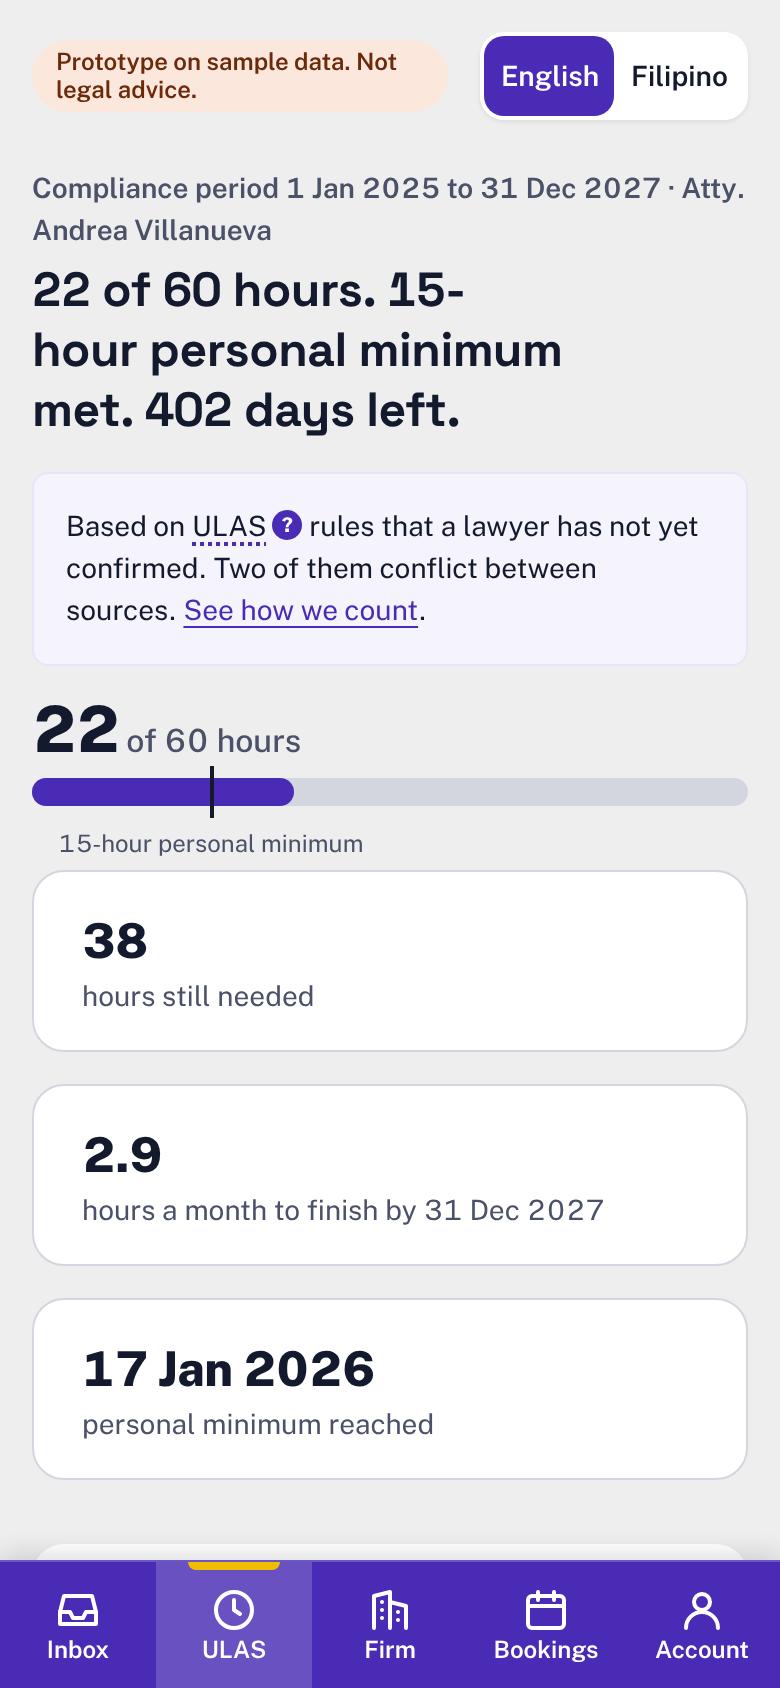
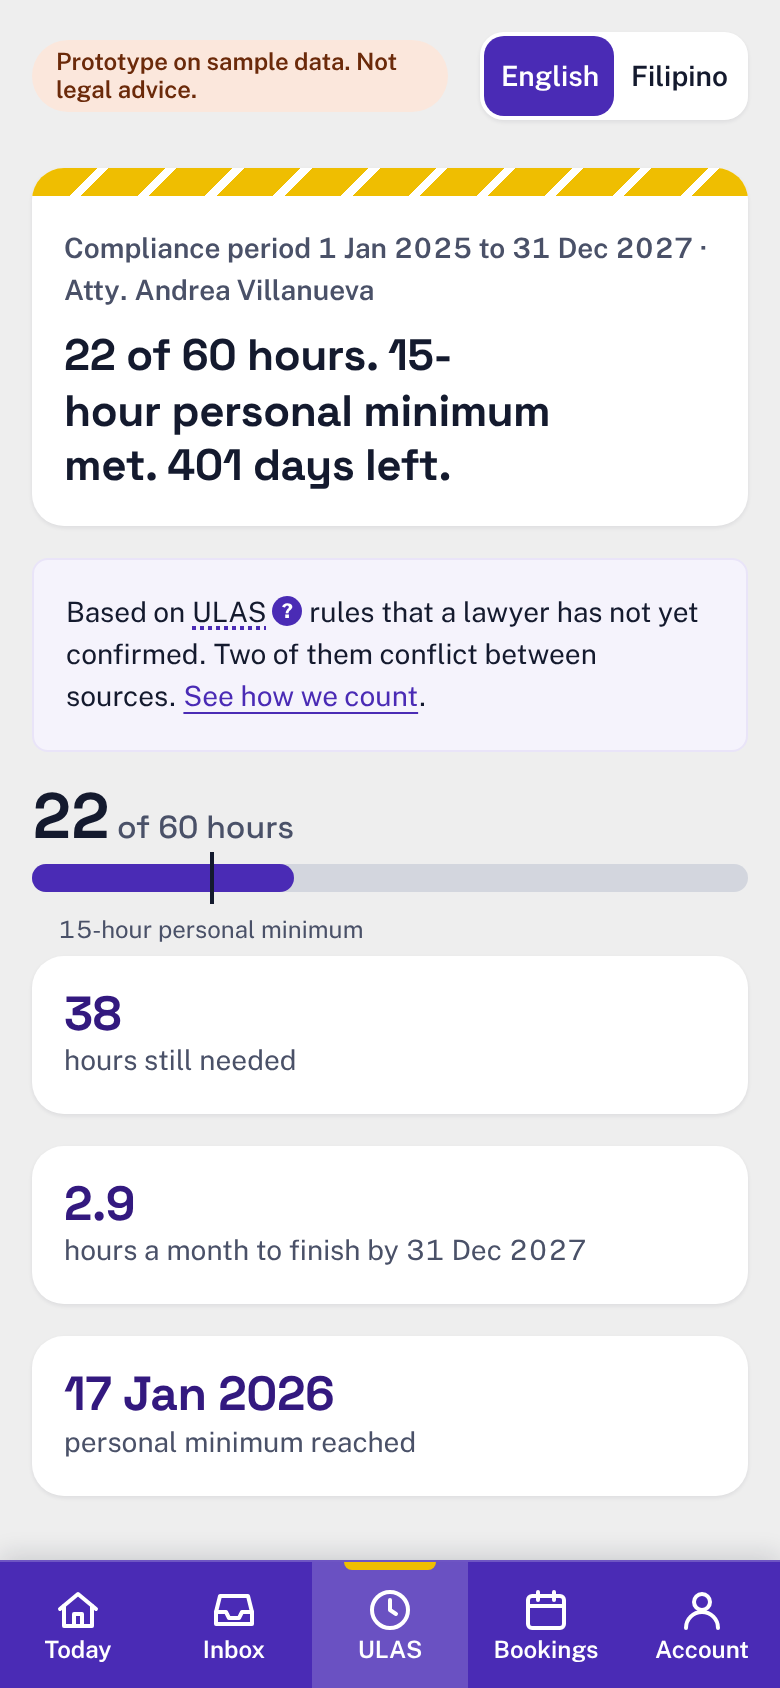
Add lawyer Today bento and move lawyer screens onto the system
/app/ is a bento grid: answer line, ULAS meter (the hero motion), new
briefs, next appointment, partner-clinic briefs, firm view and plan,
each tile opening its screen. Lawyer pages run at the dense setting; the
shared answer header becomes a banded answer card; inbox, ULAS and
bookings cards lose borders for the soft shadow and display-face
numbers; tabs get the gold underline. Home and lawyer landing sections
reveal on scroll. Smoke: snap sheet peek/half/full and a flick, Today
tiles, and a reduced-motion pass. Docs: D30, D31, gis-ui-kit motion.md.

Claude-Session: https://claude.ai/code/session_016edfBFbxvkaY57cMuCD13E

diff --git a/app/app/Today.tsx b/app/app/Today.tsx
@@ -1,0 +1,94 @@
+"use client";
+// Lawyer overview as a bento grid (direction D, decision D30): the day organised the way a solo
+// practitioner thinks (new matters, hours owed, next appointment, the plan). Answer first, then tiles
+// sized by importance. Hero motion: the ULAS bar fills. Tiles enter with a short staggered spring.
+import Link from "next/link";
+import { useMemo } from "react";
+import { useBookings, useBriefs, useHours } from "@/lib/useLawyer";
+import { firmSummary, summarize } from "@/lib/ulas";
+import { DEMO_TODAY, demoToday, fmtDate, fmtNum, peso } from "@/lib/demo";
+import { PRACTICE } from "@/lib/practice";
+import { account, firm, fullName, me } from "@/lib/data";
+import { Answer } from "@/components/Honest";
+import UlasMeter from "@/components/UlasMeter";
+import RollNumber from "@/components/RollNumber";
+import Icon from "@/components/Icon";
+import s from "./today.module.css";
+
+export default function Today() {
+  const briefs = useBriefs();
+  const hours = useHours();
+  const bookings = useBookings();
+  const sum = useMemo(() => summarize(hours, demoToday()), [hours]);
+  const fresh = briefs.filter((b) => b.status === "new");
+  const urgent = fresh.filter((b) => b.urgency === "urgent");
+  const fromClinics = fresh.filter((b) => b.source === "partner-clinic");
+  const next = bookings.filter((b) => b.status === "upcoming").sort((a, b) => `${a.date}${a.time}`.localeCompare(`${b.date}${b.time}`))[0];
+  const toSchedule = bookings.filter((b) => b.status === "to-schedule").length;
+  const f = firmSummary(firm.members);
+
+  return (
+    <div className="page-in">
+      <Answer kicker={`${fmtDate(DEMO_TODAY)} · ${fullName(me)} · sample lawyer`}>
+        {fresh.length} new {fresh.length === 1 ? "brief" : "briefs"}, {urgent.length} urgent. {fmtNum(sum.credited)} of {sum.required} ULAS hours, {sum.daysLeft} days left.
+      </Answer>
+
+      <div className={`${s.grid} stagger`}>
+        <section className={`${s.tile} ${s.ulas}`} style={{ "--i": 0 } as React.CSSProperties} aria-labelledby="t-ulas">
+          <h2 id="t-ulas" className={s.h}><Link href="/app/ulas/" className={s.cover}>ULAS hours</Link></h2>
+          <UlasMeter value={sum.credited} max={sum.required || 60} marker={sum.personalMinimum} markerLabel={`${sum.personalMinimum} h personal minimum`} label="ULAS hours credited this period" />
+          <dl className={s.kv}>
+            <div><dt>Still needed</dt><dd>{fmtNum(sum.remaining)} h</dd></div>
+            <div><dt>Pace</dt><dd>{fmtNum(sum.hoursPerMonthNeeded)} h a month</dd></div>
+            <div><dt>Period ends</dt><dd>{fmtDate(sum.periodEnd)}</dd></div>
+          </dl>
+          <p className={s.note}>Rules not yet confirmed by a lawyer.</p>
+        </section>
+
+        <section className={`${s.tile} ${s.briefs}`} style={{ "--i": 1 } as React.CSSProperties} aria-labelledby="t-briefs">
+          <h2 id="t-briefs" className={s.h}><Link href="/app/inbox/" className={s.cover}>New briefs</Link></h2>
+          <p className={s.big}><RollNumber value={fresh.length} /><span className={s.unit}>{urgent.length} urgent</span></p>
+          <ul className={s.list}>
+            {fresh.slice(0, 3).map((b) => (
+              <li key={b.id}>
+                <span className={b.urgency === "urgent" ? s.dotUrgent : s.dot} aria-hidden />
+                <span className={s.lt}>{b.title}<span className={s.ls}>{PRACTICE[b.category].en}{b.proBonoRequested ? " · pro bono asked" : ""}</span></span>
+              </li>
+            ))}
+          </ul>
+        </section>
+
+        <section className={`${s.tile} ${s.next}`} style={{ "--i": 2 } as React.CSSProperties} aria-labelledby="t-next">
+          <h2 id="t-next" className={s.h}><Link href="/app/bookings/" className={s.cover}>Next appointment</Link></h2>
+          {next ? (
+            <>
+              <p className={s.mid}>{fmtDate(next.date!)}<span className={s.unit}>{next.time} · {next.mode}</span></p>
+              <p className={s.small}>{next.matter}</p>
+              <span className={next.tag === "probono" ? s.tagPb : s.tag}>{next.tag === "probono" ? "Pro bono" : "Paid"}</span>
+            </>
+          ) : <p className={s.small}>Nothing scheduled.</p>}
+          {toSchedule > 0 && <p className={s.note}>{toSchedule} to schedule</p>}
+        </section>
+
+        <section className={`${s.tile} ${s.clinic}`} style={{ "--i": 3 } as React.CSSProperties} aria-labelledby="t-clinic">
+          <h2 id="t-clinic" className={s.h}><Link href="/app/inbox/" className={s.cover}>From partner clinics</Link></h2>
+          <p className={s.mid}><RollNumber value={fromClinics.length} /><span className={s.unit}>pro bono {fromClinics.length === 1 ? "brief" : "briefs"} waiting</span></p>
+          <p className={s.small}>{fromClinics[0]?.partner ?? "No routed briefs right now."}</p>
+        </section>
+
+        <section className={`${s.tile} ${s.firm}`} style={{ "--i": 4 } as React.CSSProperties} aria-labelledby="t-firm">
+          <h2 id="t-firm" className={s.h}><Link href="/app/firm/" className={s.cover}>Firm view (sample)</Link></h2>
+          <p className={s.mid}>{f.rendered}<span className={s.unit}>of {f.required} pooled hours</span></p>
+          <p className={s.small}>{f.behind.length} of {f.covered} lawyers behind on the personal minimum</p>
+        </section>
+
+        <section className={`${s.tile} ${s.plan}`} style={{ "--i": 5 } as React.CSSProperties} aria-labelledby="t-plan">
+          <h2 id="t-plan" className={s.h}><Link href="/app/account/" className={s.cover}>Plan</Link></h2>
+          <p className={s.mid}>{peso(account.foundingPrice)}<span className={s.unit}>a month, founding rate</span></p>
+          <p className={s.small}>Until {fmtDate(account.foundingUntil)}. Never shown on your public profile.</p>
+        </section>
+      </div>
+      <p className={s.foot}><Icon name="arrow" size={16} /> Each tile opens its screen. Sample data only.</p>
+    </div>
+  );
+}

diff --git a/app/app/today.module.css b/app/app/today.module.css
@@ -1,0 +1,45 @@
+/* Bento grid: tiles sized by importance; one system with the rest of the app (white cards, one shadow). */
+.grid { display: grid; grid-template-columns: repeat(6, minmax(0, 1fr)); grid-auto-rows: minmax(150px, auto); gap: var(--gap); }
+.tile {
+  position: relative; display: flex; flex-direction: column; gap: var(--s-2); min-width: 0;
+  padding: var(--card-pad); border-radius: var(--radius); background: var(--surface); box-shadow: var(--shadow-soft);
+  transition: transform var(--spring-spatial-ms) var(--spring-spatial), box-shadow var(--effects-ms) var(--ease-effects);
+}
+@media (hover: hover) { .tile:has(.cover:hover) { transform: translateY(-3px); box-shadow: 0 10px 28px rgba(20, 26, 46, .14); } }
+.tile:has(.cover:active) { transform: scale(.985); }
+.tile:has(.cover:focus-visible) { outline: 3px solid var(--brand); outline-offset: 2px; }
+.ulas { grid-column: span 4; grid-row: span 2; }
+.briefs { grid-column: span 2; grid-row: span 2; }
+.next, .clinic, .firm, .plan { grid-column: span 3; }
+@media (min-width: 1100px) { .next, .clinic, .firm, .plan { grid-column: span 3; } }
+.h { margin: 0; font: 700 var(--fs-sm) var(--font-text); letter-spacing: .06em; text-transform: uppercase; color: var(--muted); }
+.cover { color: inherit; text-decoration: none; }
+.cover::after { content: ""; position: absolute; inset: 0; border-radius: var(--radius); }
+.cover:focus-visible { outline: none; }
+.big { margin: 0; display: flex; align-items: baseline; gap: var(--s-2); font: 700 3rem/1 var(--font-display); color: var(--brand-dark); }
+.mid { margin: 0; display: flex; flex-wrap: wrap; align-items: baseline; gap: 0 var(--s-2); font: 700 1.75rem/1.1 var(--font-display); color: var(--brand-dark); }
+.unit { font: 500 var(--fs-sm) var(--font-text); color: var(--muted); }
+.small { margin: 0; font-size: var(--fs-sm); color: var(--ink); }
+.note { margin: auto 0 0; font-size: var(--fs-xs); color: var(--muted); }
+.kv { display: grid; grid-template-columns: repeat(3, minmax(0, 1fr)); gap: var(--s-2); margin: auto 0 0; }
+.kv dt { font-size: var(--fs-xs); color: var(--muted); }
+.kv dd { margin: 0; font: 700 var(--fs-md) var(--font-display); }
+.list { list-style: none; margin: var(--s-1) 0 0; padding: 0; display: grid; gap: var(--s-2); }
+.list li { display: flex; gap: var(--s-2); align-items: flex-start; font-size: var(--fs-sm); line-height: 1.35; }
+.lt { display: flex; flex-direction: column; min-width: 0; font-weight: 600; }
+.ls { font-weight: 400; font-size: var(--fs-xs); color: var(--muted); }
+.dot, .dotUrgent { flex: none; width: 10px; height: 10px; margin-top: 4px; border-radius: 50%; background: var(--brand); }
+.dotUrgent { background: var(--warn-ink); }
+.tag, .tagPb { align-self: flex-start; padding: 2px 10px; border-radius: var(--radius-pill); font: 600 var(--fs-xs) var(--font-text); background: var(--bg); color: var(--muted); }
+.tagPb { background: var(--ok-bg); color: var(--ok-ink); }
+.foot { display: flex; align-items: center; gap: var(--s-1); margin: var(--gap) 0 0; font-size: var(--fs-xs); color: var(--muted); }
+.ulas :global(.sr-only) + * { margin: 0; }
+@media (max-width: 1000px) { .ulas, .briefs { grid-column: span 6; grid-row: auto; } }
+@media (max-width: 640px) {
+  .grid { grid-template-columns: 1fr 1fr; grid-auto-rows: auto; }
+  .ulas, .briefs { grid-column: span 2; }
+  .next, .clinic, .firm, .plan { grid-column: span 1; }
+  .mid { font-size: 1.35rem; }
+  .kv { grid-template-columns: 1fr 1fr; }
+}
+@media (max-width: 400px) { .next, .clinic, .firm, .plan { grid-column: span 2; } }

diff --git a/components/Shell.tsx b/components/Shell.tsx
@@ -9,10 +9,10 @@ import LangToggle from "./LangToggle";
 import Icon, { type IconName } from "./Icon";
 import s from "./Shell.module.css";
 
-export type NavItem = { href: string; label: Key | string; short?: Key | string; icon: IconName };
+export type NavItem = { href: string; label: Key | string; short?: Key | string; icon: IconName; exact?: boolean };
 type Props = { audience: "client" | "lawyer" | "admin"; items: NavItem[]; children: React.ReactNode };
 
-const isActive = (path: string, href: string) => (href === "/" ? path === "/" : path === href || path.startsWith(href));
+const isActive = (path: string, href: string, exact = false) => (href === "/" || exact ? path === href : path === href || path.startsWith(href));
 const WORD = "APPogado".split("");
 // Pages that own the whole viewport (map-first). Everything else is a document page.
 const FULL_BLEED = ["/find/"];
@@ -28,7 +28,7 @@ export default function Shell({ audience, items, children }: Props) {
   const indRef = useRef<HTMLSpanElement>(null);
   const [open, setOpen] = useState(true);
   const [weaving, setWeaving] = useState(0);
-  const activeIndex = items.findIndex((i) => isActive(path, i.href));
+  const activeIndex = items.findIndex((i) => isActive(path, i.href, i.exact));
   const full = FULL_BLEED.includes(path);
 
   useEffect(() => {
@@ -66,14 +66,14 @@ export default function Shell({ audience, items, children }: Props) {
   };
 
   const other = audience === "client"
-    ? { href: "/app/inbox/", text: t("foot.lawyerSide"), short: t("foot.lawyerSideShort") }
+    ? { href: "/app/", text: t("foot.lawyerSide"), short: t("foot.lawyerSideShort") }
     : { href: "/", text: "Prototype: see the client side", short: "Client side (demo)" };
 
   return (
     <div className={s.app} data-full={full || undefined}>
       <nav className={`${s.nav} no-print`} aria-label="Main">
         <div className={s.head}>
-          <Link href={audience === "client" ? "/" : "/app/inbox/"} className={s.brand} aria-label="APPogado home">
+          <Link href={audience === "client" ? "/" : "/app/"} className={s.brand} aria-label="APPogado home">
             <span className={s.mark} aria-hidden>A</span>
             <span className={s.words}>
               <span className={s.word} key={weaving} aria-hidden>
@@ -115,7 +115,7 @@ export default function Shell({ audience, items, children }: Props) {
             <span className={s.phoneLang}><LangToggle compact /></span>
           </div>
         )}
-        <main id="main" tabIndex={-1} className={full ? s.mainFull : s.main}>{children}</main>
+        <main id="main" tabIndex={-1} className={full ? s.mainFull : s.main} data-density={audience === "client" ? undefined : "dense"}>{children}</main>
         {!full && (
           <footer className={`${s.pageFoot} no-print`}>
             <Link href={other.href}>{other.text}</Link>

diff --git a/app/app/inbox/inbox.module.css b/app/app/inbox/inbox.module.css
@@ -1,16 +1,16 @@
 .tabs { display: flex; gap: var(--s-1); margin: var(--s-4) 0 var(--s-3); overflow-x: auto; border-bottom: 1px solid var(--line); }
 .tab { position: relative; min-height: var(--touch); padding: 0 var(--s-3); border: 0; background: none; font: inherit; font-weight: 600; color: var(--muted); cursor: pointer; white-space: nowrap; }
 .tab[aria-selected="true"] { color: var(--ink); }
-.tab[aria-selected="true"]::after { content: ""; position: absolute; left: var(--s-2); right: var(--s-2); bottom: -1px; height: 3px; border-radius: 2px; background: var(--brand); }
+.tab[aria-selected="true"]::after { content: ""; position: absolute; left: var(--s-2); right: var(--s-2); bottom: -1px; height: 4px; border-radius: 2px; background: var(--act); }
 .count { display: inline-grid; place-items: center; min-width: 22px; height: 22px; margin-left: 4px; padding: 0 6px; border-radius: 11px; background: var(--bg); font-size: var(--fs-xs); }
 .list { list-style: none; margin: 0; padding: 0; display: grid; gap: var(--s-2); }
-.row { position: relative; padding: var(--s-3) var(--s-4); background: var(--surface); border: 1px solid var(--line); border-radius: var(--radius); transition: border-color var(--dur-fast) var(--ease); }
-.row:has(.link:hover) { border-color: var(--brand); }
+.row { position: relative; padding: var(--card-pad); background: var(--surface); border-radius: var(--radius); box-shadow: var(--shadow-soft); transition: transform var(--spring-spatial-ms) var(--spring-spatial), box-shadow var(--effects-ms) var(--ease-effects); }
+@media (hover: hover) { .row:has(.link:hover) { transform: translateY(-2px); box-shadow: 0 8px 24px rgba(20, 26, 46, .14); } }
 .row:has(.link:focus-visible) { outline: 2px solid var(--brand); outline-offset: 2px; }
 .link { color: var(--ink); text-decoration: none; }
 .link::after { content: ""; position: absolute; inset: 0; }
 .link:focus-visible { outline: none; }
-.title { display: block; font-weight: 700; font-size: 1.05rem; margin-bottom: var(--s-2); }
+.title { display: block; font: 700 1.05rem/1.3 var(--font-display); margin-bottom: var(--s-2); }
 .chips { display: flex; flex-wrap: wrap; gap: var(--s-1); list-style: none; margin: 0 0 var(--s-1); padding: 0; }
 .chip { padding: 2px var(--s-2); border-radius: var(--radius-pill); background: var(--bg); font-size: var(--fs-xs); font-weight: 600; color: var(--muted); }
 .urgent { background: var(--warn-bg); color: var(--warn-ink); }

diff --git a/components/ui.module.css b/components/ui.module.css
@@ -5,8 +5,11 @@
 .honest { margin: var(--s-3) 0; padding: var(--s-3); border-radius: var(--radius-sm); background: var(--brand-wash); border: 1px solid var(--brand-tint); font-size: var(--fs-sm); }
 .honest > :first-child { margin-top: 0; }
 .honest > :last-child { margin-bottom: 0; }
-.answer { margin: 0 0 var(--s-2); font-size: var(--fs-lg); line-height: 1.25; font-weight: 700; letter-spacing: -0.01em; text-wrap: balance; }
-.kicker { margin: 0 0 var(--s-1); font-size: var(--fs-sm); color: var(--muted); font-weight: 600; }
+.answerCard { position: relative; overflow: hidden; margin: 0 0 var(--gap); padding: calc(14px + var(--card-pad)) var(--card-pad) var(--card-pad); border-radius: var(--radius); background: var(--surface); box-shadow: var(--shadow-soft); }
+.answerCard::before { content: ""; position: absolute; top: 0; left: 0; right: 0; height: 14px; background: repeating-linear-gradient(-45deg, var(--act) 0 20px, #fff 20px 24px); }
+.answerCard > :last-child { margin-bottom: 0; }
+.answer { margin: 0; font: 700 var(--fs-lg)/1.25 var(--font-display); letter-spacing: -0.01em; text-wrap: balance; }
+.kicker { margin: 0 0 var(--s-2); font-size: var(--fs-sm); color: var(--muted); font-weight: 600; }
 .tags { display: flex; flex-wrap: wrap; gap: var(--s-1); padding: 0; margin: 0; list-style: none; }
 .tag { display: inline-flex; align-items: center; min-height: 28px; padding: 0 var(--s-2); border-radius: var(--radius-pill); background: var(--bg); border: 1px solid var(--line); font-size: var(--fs-sm); }
 .tagUrgent { background: var(--warn-bg); color: var(--warn-ink); border-color: transparent; font-weight: 600; }

diff --git a/app/(client)/for-lawyers/page.tsx b/app/(client)/for-lawyers/page.tsx
@@ -26,7 +26,7 @@ export default function Page() {
         </div>
       </section>
 
-      <section className={s.job}>
+      <section className={`${s.job} reveal`}>
         <div>
           <p className={s.n}>1 · Get discovered</p>
           <h2 className={s.h2}>A listing that is the same for everyone</h2>
@@ -35,7 +35,7 @@ export default function Page() {
         <div className={s.preview}><LawyerCard lawyer={card} lang="en" /></div>
       </section>
 
-      <section className={s.job}>
+      <section className={`${s.job} reveal`}>
         <div>
           <p className={s.n}>2 · Triage in a minute</p>
           <h2 className={s.h2}>Every matter arrives as a one-page brief</h2>
@@ -44,7 +44,7 @@ export default function Page() {
         <div className={s.preview}><BriefCard brief={brief} headingLevel={3} /></div>
       </section>
 
-      <section className={s.job}>
+      <section className={`${s.job} reveal`}>
         <div>
           <p className={s.n}>3 · Stay ULAS-compliant</p>
           <h2 className={s.h2}>Your 60 hours, counted as you go</h2>
@@ -57,7 +57,7 @@ export default function Page() {
         </div>
       </section>
 
-      <section id="pricing" className={s.pricing}>
+      <section id="pricing" className={`${s.pricing} reveal`}>
         <h2 className={s.h2}>Pricing</h2>
         <div className={s.plans}>
           <div className="panel">

diff --git a/app/(client)/Home.tsx b/app/(client)/Home.tsx
@@ -32,15 +32,15 @@ export default function Home() {
           <Link className={s.nearLink} href="/find/">{t("h.near")}</Link>
         </div>
 
-        <dl className={s.strip}>
+        <dl className={`${s.strip} reveal`}>
           <div><dt>{t("h.stLawyers")}</dt><dd><RollNumber value={lawyers.length} /></dd></div>
           <div><dt>{t("h.stOffices")}</dt><dd><RollNumber value={offices.length} /></dd></div>
           <div><dt>{t("h.stAreas")}</dt><dd><RollNumber value={PRACTICE_KEYS.length} /></dd></div>
         </dl>
 
-        <p className={s.lede}>{t("h.lede")}</p>
+        <p className={`${s.lede} reveal`}>{t("h.lede")}</p>
 
-        <div className={s.how}>
+        <div className={`${s.how} reveal`}>
           <Link className={s.preview} href="/describe/">
             <div className={s.pvCard}><BriefCard brief={sample} lang={lang} headingLevel={3} /></div>
             <span className={s.pvCap}>{t("h.pvCap")}<Icon name="arrow" size={18} /></span>
@@ -62,7 +62,7 @@ export default function Home() {
           </section>
         </div>
 
-        <blockquote className={s.quote}>
+        <blockquote className={`${s.quote} reveal`}>
           <p>{t("h.quote")}</p>
           <cite>{t("h.cite")}</cite>
         </blockquote>

diff --git a/components/UlasMeter.module.css b/components/UlasMeter.module.css
@@ -1,7 +1,7 @@
 .meter { margin: var(--s-3) 0 var(--s-5); }
-.num { margin: 0 0 var(--s-2); font-size: var(--fs-xl); font-weight: 800; line-height: 1; letter-spacing: -0.02em; }
+.num { margin: 0 0 var(--s-2); font-family: var(--font-display); font-size: var(--fs-xl); font-weight: 700; line-height: 1; letter-spacing: -0.02em; }
 .of { font-size: var(--fs-md); font-weight: 500; color: var(--muted); letter-spacing: 0; }
 .track { position: relative; height: 14px; border-radius: var(--radius-pill); background: var(--line); }
-.bar { height: 100%; border-radius: inherit; background: var(--brand); transition: width .6s var(--ease); }
+.bar { height: 100%; border-radius: inherit; background: var(--brand); transition: width var(--spring-spatial-slow-ms) var(--spring-spatial-slow); }
 .marker { position: absolute; top: -6px; bottom: -6px; width: 2px; margin-left: -1px; background: var(--ink); }
 .markerLabel { position: absolute; top: 100%; left: 50%; transform: translateX(-50%); margin-top: 4px; white-space: nowrap; font-size: var(--fs-xs); color: var(--muted); }

diff --git a/app/app/bookings/bookings.module.css b/app/app/bookings/bookings.module.css
@@ -1,7 +1,7 @@
 .group { margin-top: var(--s-4); }
 .h2 { margin: 0 0 var(--s-2); font-size: 1.1rem; }
 .list { list-style: none; margin: 0; padding: 0; display: grid; gap: var(--s-2); }
-.row { display: grid; grid-template-columns: 1fr auto; gap: var(--s-2) var(--s-4); padding: var(--s-3) var(--s-4); background: var(--surface); border: 1px solid var(--line); border-radius: var(--radius); }
+.row { display: grid; grid-template-columns: 1fr auto; gap: var(--s-2) var(--s-4); padding: var(--card-pad); background: var(--surface); border-radius: var(--radius); box-shadow: var(--shadow-soft); }
 .title { margin: 0 0 var(--s-1); font-weight: 700; }
 .chips { display: flex; gap: var(--s-1); list-style: none; margin: 0 0 var(--s-1); padding: 0; }
 .chip { padding: 2px var(--s-2); border-radius: var(--radius-pill); background: var(--bg); font-size: var(--fs-xs); font-weight: 600; color: var(--muted); }

diff --git a/app/app/ulas/ulas.module.css b/app/app/ulas/ulas.module.css
@@ -1,6 +1,6 @@
 .stats { display: grid; grid-template-columns: repeat(3, 1fr); gap: var(--s-3); margin-bottom: var(--s-5); }
-.stat { padding: var(--s-3) var(--s-4); background: var(--surface); border: 1px solid var(--line); border-radius: var(--radius); }
-.statNum { margin: 0; font-size: 1.5rem; font-weight: 800; letter-spacing: -0.01em; }
+.stat { padding: var(--card-pad); background: var(--surface); border-radius: var(--radius); box-shadow: var(--shadow-soft); }
+.statNum { margin: 0; font: 700 1.5rem/1.1 var(--font-display); color: var(--brand-dark); letter-spacing: -0.01em; }
 .statLbl { margin: 0; font-size: var(--fs-sm); color: var(--muted); }
 .cols { display: grid; grid-template-columns: 1fr 1fr; gap: var(--s-4); align-items: start; }
 .two { display: grid; grid-template-columns: 1fr 1fr; gap: var(--s-3); }

diff --git a/components/Honest.tsx b/components/Honest.tsx
@@ -2,11 +2,13 @@ import s from "./ui.module.css";
 export function Honest({ children }: { children: React.ReactNode }) {
   return <div className={s.honest} role="note">{children}</div>;
 }
-export function Answer({ kicker, children, id }: { kicker?: React.ReactNode; children: React.ReactNode; id?: string }) {
+// Answer card (gis-ui-kit): 14 px gold band, eyebrow, the answer as the headline, optional detail below.
+export function Answer({ kicker, children, id, after }: { kicker?: React.ReactNode; children: React.ReactNode; id?: string; after?: React.ReactNode }) {
   return (
-    <header>
+    <header className={s.answerCard}>
       {kicker && <p className={s.kicker}>{kicker}</p>}
       <h1 className={s.answer} id={id}>{children}</h1>
+      {after}
     </header>
   );
 }

diff --git a/app/app/layout.tsx b/app/app/layout.tsx
@@ -1,9 +1,9 @@
 import Shell from "@/components/Shell";
 
 const items = [
+  { href: "/app/", label: "Today", icon: "home" as const, exact: true },
   { href: "/app/inbox/", label: "Inbox", icon: "inbox" as const },
   { href: "/app/ulas/", label: "ULAS hours", short: "ULAS", icon: "clock" as const },
-  { href: "/app/firm/", label: "Firm", icon: "building" as const },
   { href: "/app/bookings/", label: "Bookings", icon: "calendar" as const },
   { href: "/app/account/", label: "Account", icon: "user" as const },
 ];
